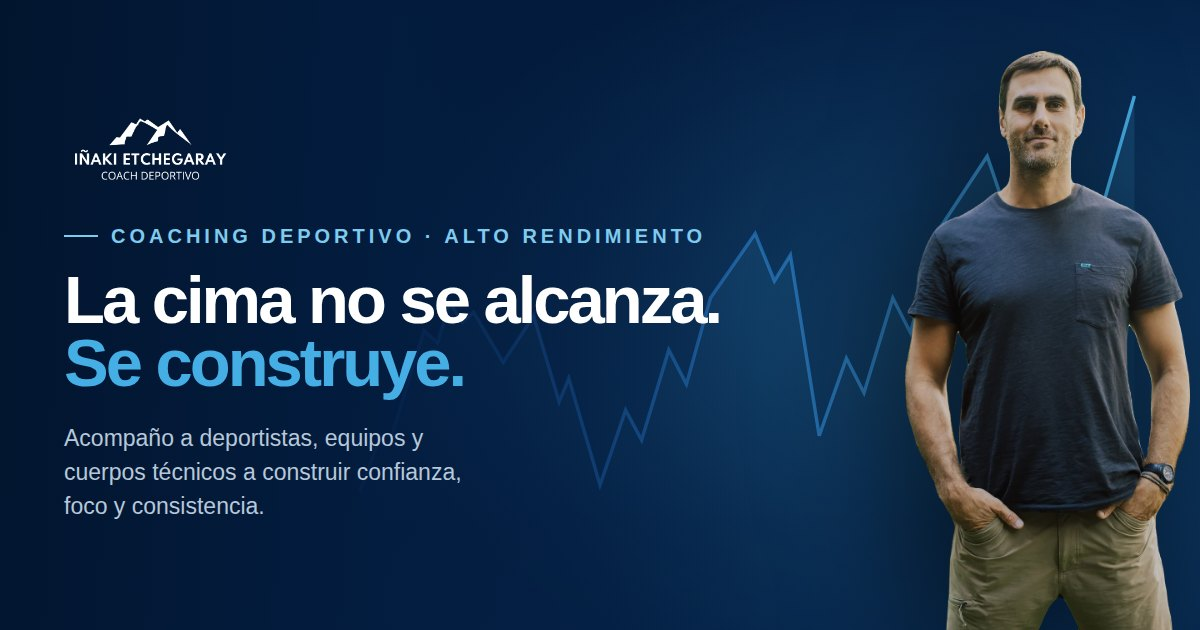
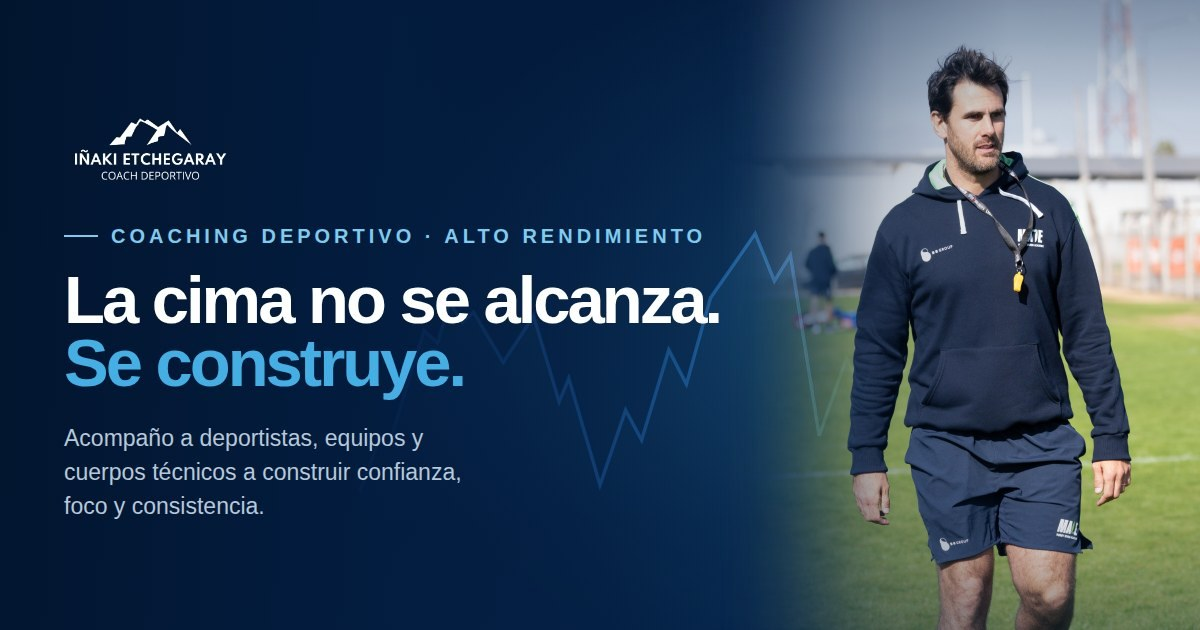
Imagen para compartir con la foto de Iñaki en la cancha
La tarjeta de 1200x630 conserva el fondo, el logo y el texto; cambia
la foto recortada por la de la cancha, encuadrada hasta las rodillas
(sin los logos sobreimpresos de abajo) y fundida con el azul. La
versión de og:image pasa a v=2 para que se pida la nueva.

Claude-Session: https://claude.ai/code/session_01QtkrdvrrydSAuhSUbkMNvT

diff --git a/index.html b/index.html
@@ -26,8 +26,8 @@
 <meta property="og:locale" content="es_AR">
 <meta property="og:title" content="Coach deportivo y coach ontológico | Iñaki Etchegaray">
 <meta property="og:description" content="La cima no se alcanza, se construye. Acompaño a deportistas, equipos y cuerpos técnicos a construir confianza, foco y consistencia con el método CIMA.">
-<meta property="og:image" content="https://inakietchegaray.com.ar/assets/brand/og-cover.jpg?v=1">
-<meta property="og:image:secure_url" content="https://inakietchegaray.com.ar/assets/brand/og-cover.jpg?v=1">
+<meta property="og:image" content="https://inakietchegaray.com.ar/assets/brand/og-cover.jpg?v=2">
+<meta property="og:image:secure_url" content="https://inakietchegaray.com.ar/assets/brand/og-cover.jpg?v=2">
 <meta property="og:image:type" content="image/jpeg">
 <meta property="og:image:width" content="1200">
 <meta property="og:image:height" content="630">
@@ -36,7 +36,7 @@
 <meta name="twitter:card" content="summary_large_image">
 <meta name="twitter:title" content="Coach deportivo y coach ontológico | Iñaki Etchegaray">
 <meta name="twitter:description" content="La cima no se alcanza, se construye. Coaching deportivo de alto rendimiento para deportistas, equipos y cuerpos técnicos.">
-<meta name="twitter:image" content="https://inakietchegaray.com.ar/assets/brand/og-cover.jpg?v=1">
+<meta name="twitter:image" content="https://inakietchegaray.com.ar/assets/brand/og-cover.jpg?v=2">
 <!-- Para Google: quién es Iñaki y qué ofrece (schema.org). Son los
      mismos datos que ya muestra la página: nombre, mail, Instagram y
      WhatsApp. -->

diff --git a/contacto/index.html b/contacto/index.html
@@ -15,7 +15,7 @@
 <meta property="og:locale" content="es_AR">
 <meta property="og:title" content="Contacto — Iñaki Etchegaray, coach deportivo">
 <meta property="og:description" content="Contacto de Iñaki Etchegaray, coach deportivo: WhatsApp, email e Instagram. Todo proceso arranca con una entrevista sin compromiso.">
-<meta property="og:image" content="https://inakietchegaray.com.ar/assets/brand/og-cover.jpg?v=1">
+<meta property="og:image" content="https://inakietchegaray.com.ar/assets/brand/og-cover.jpg?v=2">
 <link rel="preload" href="/assets/fonts/archivo-var-latin.woff2" as="font" type="font/woff2" crossorigin>
 <link rel="preload" href="/assets/fonts/archivo-black-latin.woff2" as="font" type="font/woff2" crossorigin>
 <link rel="stylesheet" href="/styles.css?v=20261099">

diff --git a/sobre-mi/index.html b/sobre-mi/index.html
@@ -15,7 +15,7 @@
 <meta property="og:locale" content="es_AR">
 <meta property="og:title" content="Sobre mí — Iñaki Etchegaray, coach deportivo">
 <meta property="og:description" content="Iñaki Etchegaray, coach deportivo: su historia, su formación, el método CIMA y los equipos y clubes con los que trabajó.">
-<meta property="og:image" content="https://inakietchegaray.com.ar/assets/brand/og-cover.jpg?v=1">
+<meta property="og:image" content="https://inakietchegaray.com.ar/assets/brand/og-cover.jpg?v=2">
 <link rel="preload" href="/assets/fonts/archivo-var-latin.woff2" as="font" type="font/woff2" crossorigin>
 <link rel="preload" href="/assets/fonts/archivo-black-latin.woff2" as="font" type="font/woff2" crossorigin>
 <link rel="stylesheet" href="/styles.css?v=20261099">

diff --git a/privacidad/index.html b/privacidad/index.html
@@ -15,7 +15,7 @@
 <meta property="og:locale" content="es_AR">
 <meta property="og:title" content="Política de privacidad — Iñaki Etchegaray">
 <meta property="og:description" content="Qué datos usa el sitio de Iñaki Etchegaray, para qué, y cómo ejercer tus derechos sobre ellos.">
-<meta property="og:image" content="https://inakietchegaray.com.ar/assets/brand/og-cover.jpg?v=1">
+<meta property="og:image" content="https://inakietchegaray.com.ar/assets/brand/og-cover.jpg?v=2">
 <link rel="preload" href="/assets/fonts/archivo-var-latin.woff2" as="font" type="font/woff2" crossorigin>
 <link rel="preload" href="/assets/fonts/archivo-black-latin.woff2" as="font" type="font/woff2" crossorigin>
 <link rel="stylesheet" href="/styles.css?v=20261099">
